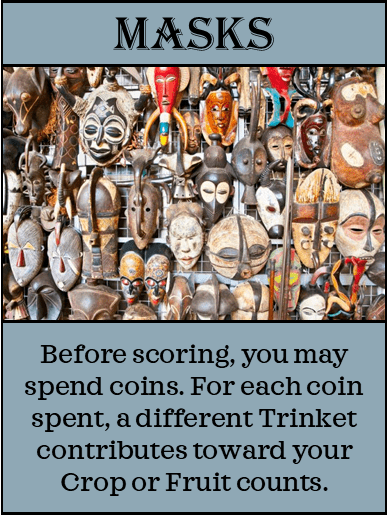
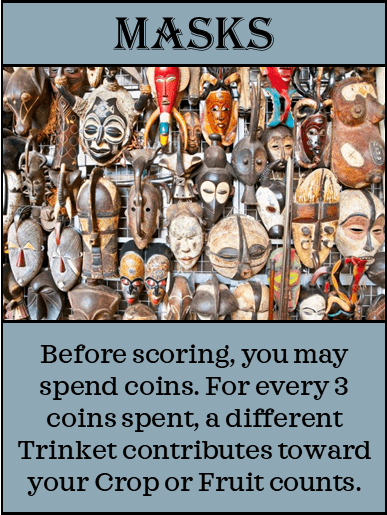
Balance coin economy

diff --git a/script.js b/script.js
@@ -19,8 +19,8 @@ const httpServer = createServer(app);
 const port = process.env.PORT || 3000 ;
 const io = new Server(httpServer, {
     cors: {
-        origin: "http://marketplace-pfci.onrender.com",
-        //origin: "http://127.0.0.1:5500",
+        //origin: "http://marketplace-pfci.onrender.com",
+        origin: "http://127.0.0.1:5500",
 }
 });
 
@@ -98,8 +98,7 @@ io.on("connection", (socket) => {
                 totalRounds = 2;
             }
             io.emit("gameStartSetup", players, totalRounds, gameRound);
-            console.log("totalRounds: "+totalRounds);
-            newRound();
+            setTimeout(() => {newRound()}, 3000);
         }
     })
     socket.on("draftedCard", (myPlayerNum, goodIndex) => {
@@ -170,8 +169,6 @@ io.on("connection", (socket) => {
 
             if (wait == undefined){
                 // determine discount
-                console.log("buys: "+numBuys);
-                console.log("invests: "+numInvests)
                 if (numBuys > numInvests){
                     players[vendorNum].choice.push("invest");
                     discount = "breakout";
@@ -383,21 +380,21 @@ io.on("connection", (socket) => {
     socket.on("masksResolved", (playerNum, newFruits, newCrops, modifier, isLastRound) => {
         players[playerNum].numCoins -= (newFruits + newCrops);
         players[playerNum].masked.length = 0;
-        players[playerNum].masked.push(newFruits)
-        players[playerNum].masked.push(newCrops);
+        players[playerNum].masked.push(Math.floor(newFruits/3))
+        players[playerNum].masked.push(Math.floor(newCrops/3));
         for (let i = 0; i < newFruits; i++){
             io.emit("addMask", "Fruit", i, playerNum);
         }
-        for (let i =0; i < newCrops; i++){
+        for (let i = 0; i < newCrops; i++){
             io.emit("addMask", "Crop", i+newFruits, playerNum);
         }
         scoreTableau(players[playerNum], modifier, true, false, isLastRound);
     })
 
-    socket.on("guavasSet", (playerNum, guavaValue, modifier, isLastRound) => {
-        players[playerNum].numCoins -= guavaValue;
+    socket.on("guavasSet", (playerNum, coinsSpent, modifier, isLastRound) => {
+        players[playerNum].numCoins -= coinsSpent;
         const guavas = players[playerNum].tableau.find(fruit => fruit.name == "Guavas");
-        guavas.VP = guavaValue;
+        guavas.VP = 2*Math.floor(coinsSpent/5);
         scoreTableau(players[playerNum], modifier, true, true, isLastRound);
     })
 
@@ -417,7 +414,7 @@ io.on("connection", (socket) => {
             let avg1 = Math.floor(runningBid1 / players.length);
             let avg2 = Math.floor(runningBid2 / players.length);
             for (let i = 0; i < players.length; i++){
-                
+                const player = players.find(player => player.playerNum == playerNum);
                 players[i].numCoins -= (players[i].choice[0] + players[i].choice[1]);
                 if(players[i].choice[0] > (avg1)){
                     players[i].tableau.push(finalCrops[0]);
@@ -619,19 +616,22 @@ function createDraftingDeck(numPlayers){
 }
 
 function validateDeck(deck){
+    console.log(gameRound);
     for (let i = 0; i < deck.length; i++){
-        if(i.deckRestriction){
-            if (i.type == "Fruit"){
-                fruitsRemaining.push(deck.splice(i, 1)[0])
+        if(eval(deck[i].deckRestriction)){
+            const restrictedGood = deck.splice(i, 1)[0];
+            if (deck[i].type == "Fruit"){
+                console.log("caught 'em")
                 deck.push(fruitsRemaining.splice(Math.floor(Math.random()*(fruitsRemaining.length)), 1)[0])
+                fruitsRemaining.push(restrictedGood)
             }
-            else if (i.type == "Crop"){
-                cropsRemaining.push(deck.splice(i, 1)[0])
+            else if (deck[i].type == "Crop"){
                 deck.push(cropsRemaining.splice(Math.floor(Math.random()*(cropsRemaining.length)), 1)[0]) 
+                cropsRemaining.push(restrictedGood)
             }
-            else if (i.type == "Trinket"){
-                trinketsRemaining.push(deck.splice(i, 1)[0])
+            else if (deck[i].type == "Trinket"){
                 deck.push(trinketsRemaining.splice(Math.floor(Math.random()*(trinketsRemaining.length)), 1)[0])
+                trinketsRemaining.push(restrictedGood)
             }
             return false
         }

diff --git a/static/Cards/Fruits.js b/static/Cards/Fruits.js
@@ -1,5 +1,5 @@
 export const allFruits = [
-    {
+ /*   {
         "name": "Apples",
         "type": "Fruit",
         "image": "static/Images/Apples.png",
@@ -46,7 +46,7 @@ export const allFruits = [
         "onPlay": "none",
         "active": "none",
         "ongoing": "none",
-        "VP": "11-player.getNumFruits()",
+        "VP": "13-(2*player.getNumFruits())",
         "deckRestriction": "false"
     },
     {
@@ -93,7 +93,7 @@ export const allFruits = [
         "name": "Oranges",
         "type": "Fruit",
         "image": "static/Images/Oranges.png",
-        "onPlay": "player.numCoins += 4",
+        "onPlay": "player.numCoins += 6",
         "active": "none",
         "ongoing": "none",
         "VP": "player.getNumTrinkets()",
@@ -109,7 +109,7 @@ export const allFruits = [
         "VP": "0",
         "deckRestriction": "false"
     },
-    {
+  */  {
         "name": "Passion_Fruit",
         "type": "Fruit",
         "image": "static/Images/Passion_Fruit.png",
@@ -146,7 +146,7 @@ export const allFruits = [
         "onPlay": "none",
         "active": "none",
         "ongoing": "none",
-        "VP": "Math.floor((player.numCoins + player.choice[0] + player.choice[1])/3)",
+        "VP": "Math.floor((player.numCoins + player.choice[0] + player.choice[1])/5)",
         "deckRestriction": "false"
     }
 ]

diff --git a/static/styles.css b/static/styles.css
@@ -256,7 +256,7 @@ z-index: 11;
     display: grid;
     grid-template: auto 1fr / auto auto;
     row-gap: 2px;
-    height: fit-content;
+    height: 210px;
     padding: 0px 20px 5px 20px;
 }
 div[id^="player"] .status{
@@ -293,7 +293,7 @@ div[id^="player"] .status{
 #opponentDisplay .tableau div{
     display: grid;
     grid-template-columns: auto auto;
-    grid-template-rows: min-content;
+    grid-template-rows: repeat(auto-fill, 57px);
     justify-content: center;
     width: 90px;
 }
@@ -317,7 +317,7 @@ div[id^="player"] .status{
 .myself .tableau div{
     display: grid;
     grid-template-columns: repeat(auto-fit, 270px);
-    grid-template-rows: min-content;
+    grid-template-rows: repeat(auto-fit, 350px);
     justify-content: center;
     width: 100%;
     height: 100%;
@@ -408,6 +408,9 @@ div[id^="player"] .status{
 }
 #goodSelectionDiv #message{
     grid-row: 2 / 3;
+}
+#goodSelectionDiv img{
+    width: 250px;
 }
 #selectionPopUp{
     grid-row: 3 / 4;

diff --git a/static/Cards/Crops.js b/static/Cards/Crops.js
@@ -127,7 +127,7 @@ export const allCrops = [
         "onPlay": "none",
         "active": "none",
         "ongoing": "none",
-        "VP": "(3*player.getNumTrinkets()) - (player.getNumCrops())",
+        "VP": "(5*player.getNumTrinkets()) - (2*player.getNumCrops())",
         "deckRestriction": "false"
     },
     {

diff --git a/static/client.js b/static/client.js
@@ -1,5 +1,5 @@
-const socket = io("https://marketplace-pfci.onrender.com/");
-//const socket = io("http://localhost:3000");
+//const socket = io("https://marketplace-pfci.onrender.com/");
+const socket = io("http://localhost:3000");
 
 function readCookieValue(name){
     const allCookies = document.cookie.split(';');
